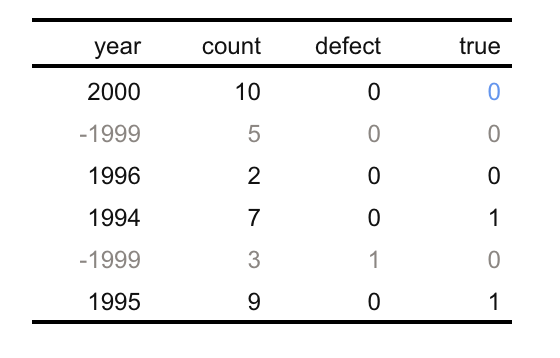
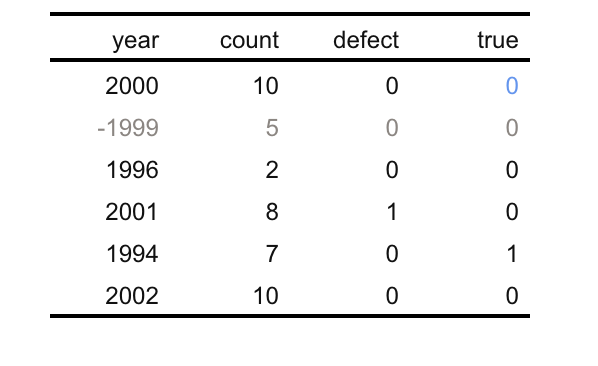
function updates

diff --git a/README.md b/README.md
@@ -234,6 +234,15 @@ prepList
 
     ## [[1]]
     ##    year count time defect true
+    ## 1  2000    10   20    0.6   NA
+    ## 2 -1999     5   11    0.5    0
+    ## 3  2000     5    9    1.1    1
+    ## 4  1995     9   18    0.8    1
+    ## 5  1996    NA    4    0.7    0
+    ## 6  2001     8   15    1.3    0
+    ## 
+    ## [[2]]
+    ##    year count time defect true
     ## 1  2000    10   20      0   NA
     ## 2 -1999     5   11      0    0
     ## 3  2000     5    9      1    1
@@ -241,7 +250,7 @@ prepList
     ## 5  1996    NA    4      0    0
     ## 6  2001     8   15      1    0
     ## 
-    ## [[2]]
+    ## [[3]]
     ##    year count time defect true
     ## 1  2000    10   20      0   NA
     ## 2 -1999     5   11      0    0
@@ -250,7 +259,7 @@ prepList
     ## 5  1996     2    4      0    0
     ## 6  2001     8   15      1    0
     ## 
-    ## [[3]]
+    ## [[4]]
     ##    year count defect true
     ## 1  2000    10      0    0
     ## 2 -1999     5      0    0
@@ -259,7 +268,7 @@ prepList
     ## 5  1996     2      0    0
     ## 6  2001     8      1    0
     ## 
-    ## [[4]]
+    ## [[5]]
     ##   year count defect true one
     ## 1 2000    10      0    0   1
     ## 3 2000     5      1    1   1
@@ -267,7 +276,7 @@ prepList
     ## 5 1996     2      0    0   1
     ## 6 2001     8      1    0   1
     ## 
-    ## [[5]]
+    ## [[6]]
     ##    year count defect true one
     ## 1  2000    10      0    0   1
     ## 3  2000     5      1    1   1
@@ -458,8 +467,8 @@ mylist <-
   prep_smallset(
     data = df,
     prepCode = "prep_data.R",
-    size = 6,
-    rowNums = c(1, 2, 5, 8)
+    rowCount = 6,
+    rowNums = c(1, 2, 5)
   )
 
 fts <- highlight_changes(list = mylist)
@@ -476,6 +485,7 @@ so far, all they really have to do is add comments to their
 preprocessing script and they can get the output below (this is what is
 in the fts object created above).
 
+<img src='fts/0.png' align="center" />
 <img src='fts/1.png' align="center" />
 <img src='fts/2.png' align="center" />
 <img src='fts/3.png' align="center" />
